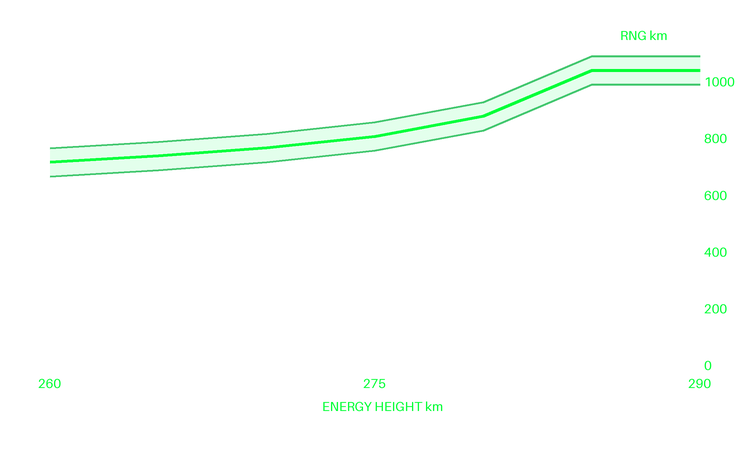
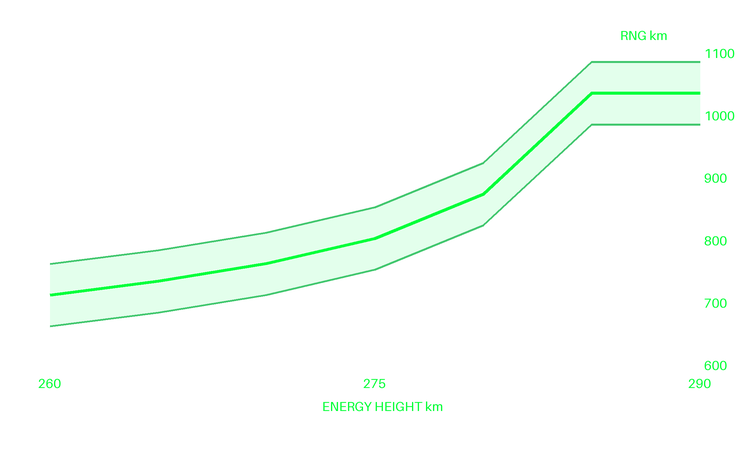
Tighten V/SIT range windows

diff --git a/README.md b/README.md
@@ -210,7 +210,7 @@ For a same-body orbital rendezvous, choose **Rendezvous** in Orbital Maneuvering
 
 When adding an abort mode, keep its behavior behind the abort-mode dispatcher and give it a dedicated flight-phase state. Add user-facing documentation only after the mode is implemented and tested with the Poseidon craft. This keeps the abort section easy to extend without documenting work-in-progress behavior.
 
-`TRAJ 1 V/SIT` through `TRAJ 5 V/SIT` are successively zoomed views of one fixed energy-height/range corridor generated from successful `reentry_low` flight logs. Their energy bands are 260–290, 210–260, 170–210, 140–170, and 100–140 km. Their corresponding RNG ceilings are 1,100, 800, 600, 300, and 200 km, making the vehicle's position inside the corridor readable throughout entry. The generator uses the median remaining range at each energy height, encloses every accepted source flight, and keeps a minimum ±50 km corridor. Rebuild the KerboScript profile and all five backgrounds after selecting a new representative set:
+`TRAJ 1 V/SIT` through `TRAJ 5 V/SIT` are successively zoomed views of one fixed energy-height/range corridor generated from successful `reentry_low` flight logs. Their energy bands are 260–290, 210–260, 170–210, 140–170, and 100–140 km. Their corresponding RNG windows are 600–1,100, 450–800, 150–600, 50–300, and 0–180 km, making the vehicle's position inside the corridor readable throughout entry. The generator uses the median remaining range at each energy height, encloses every accepted source flight, and keeps a minimum ±50 km corridor. Rebuild the KerboScript profile and all five backgrounds after selecting a new representative set:
 
 ```sh
 python3 support/build_entry_nominal.py \
